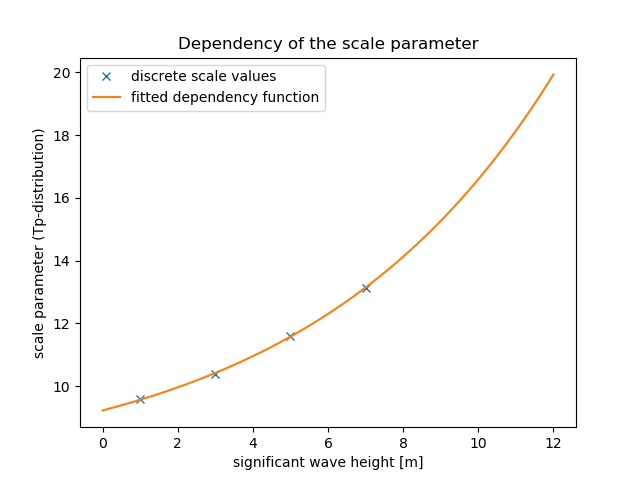
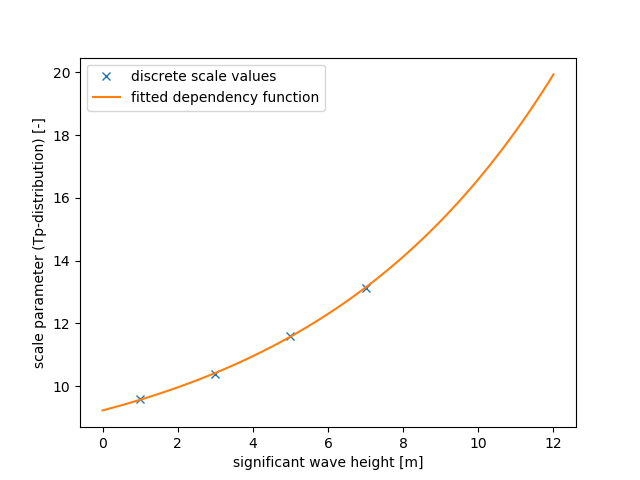
Polish the fitting example, #24

Changed region(s): [[0.2812, 0.0625, 0.75, 0.125], [0.0312, 0.25, 0.0938, 0.75]]

diff --git a/examples/fit_distribution_similar_to_docs.py b/examples/fit_distribution_similar_to_docs.py
@@ -23,8 +23,8 @@ dist_description_0 = {'name': 'Weibull', 'dependency': (None, None, None), 'widt
 dist_description_1 = {'name': 'Lognormal_1', 'dependency': (None, None, 0), 'functions': (None, None, 'f2')}
 my_fit = Fit((sample_1, sample_2), (dist_description_0, dist_description_1), timeout=None)
 
+# Plot the fit for the significant wave height, Hs.
 fig = plt.figure()
-plt.title('Fit for the significant wave height, Hs')
 param_grid = my_fit.multiple_fit_inspection_data[0].scale_at
 plt.hist(my_fit.multiple_fit_inspection_data[0].scale_samples[0], density=1, label='sample')
 shape = my_fit.mul_var_dist.distributions[0].shape(0)
@@ -33,11 +33,12 @@ plt.plot(np.linspace(0, 20, 100),
          sts.weibull_min.pdf(np.linspace(0, 20, 100), c=shape, loc=0, scale=scale),
          label='fit')
 plt.xlabel('significant wave height [m]')
+plt.ylabel('probability density [-]')
 plt.legend()
 plt.show()
 
+# Plot the fits for the spectreal peak period, Tp.
 fig = plt.figure(figsize=(10, 8))
-example_text = fig.suptitle('Fits for spectral peak period, Tp')
 ax_1 = fig.add_subplot(221)
 title1 = ax_1.set_title('Tp-Distribution for 0≤Hs<2')
 param_grid = my_fit.multiple_fit_inspection_data[1].scale_at
@@ -70,15 +71,15 @@ ax4_plot = ax_4.plot(np.linspace(0, 20, 100), sts.lognorm.pdf(np.linspace(0, 20,
 ax_4.set_xlabel('spectral peak period [s]')
 plt.show()
 
+# Plot the fit of the dependency function of scale.
 fig = plt.figure()
-plt.title('Dependency of the scale parameter')
 x_1 = np.linspace(0, 12, 100)
 plt.plot(param_grid, my_fit.multiple_fit_inspection_data[1].scale_value, 'x',
          label='discrete scale values')
 plt.plot(x_1, my_fit.mul_var_dist.distributions[1].scale(x_1),
          label='fitted dependency function')
 plt.xlabel('significant wave height [m]')
-plt.ylabel('scale parameter (Tp-distribution)')
+plt.ylabel('scale parameter (Tp-distribution) [-]')
 plt.legend()
 plt.show()
 

diff --git a/viroconcom/version.py b/viroconcom/version.py
@@ -1,1 +1,1 @@
-__version__ = '1.0.17'
+__version__ = '1.0.22'

diff --git a/docs/fitting.rst b/docs/fitting.rst
@@ -86,7 +86,6 @@ Based on this description, we can compute the fit ::
 Now, let us plot the fit for the first variable ::
 
     fig = plt.figure()
-    plt.title('Fit for the significant wave height, Hs')
     param_grid = my_fit.multiple_fit_inspection_data[0].scale_at
     plt.hist(my_fit.multiple_fit_inspection_data[0].scale_samples[0], density=1, label='sample')
     shape = my_fit.mul_var_dist.distributions[0].shape(0)
@@ -109,7 +108,6 @@ For our second variable, we need some more plots to inspect it properly.
 Let us start with the individual distributions, one for each Hs-interval ::
 
     fig = plt.figure(figsize=(10, 8))
-    example_text = fig.suptitle('Fits for spectral peak period, Tp')
     ax_1 = fig.add_subplot(221)
     title1 = ax_1.set_title('Tp-Distribution for 0≤Hs<2')
     param_grid = my_fit.multiple_fit_inspection_data[1].scale_at
@@ -143,7 +141,6 @@ Let us start with the individual distributions, one for each Hs-interval ::
     plt.show()
 
     fig = plt.figure()
-    plt.title('Dependency of the scale parameter')
     x_1 = np.linspace(0, 12, 100)
     plt.plot(param_grid, my_fit.multiple_fit_inspection_data[1].scale_value, 'x',
              label='discrete scale values')
